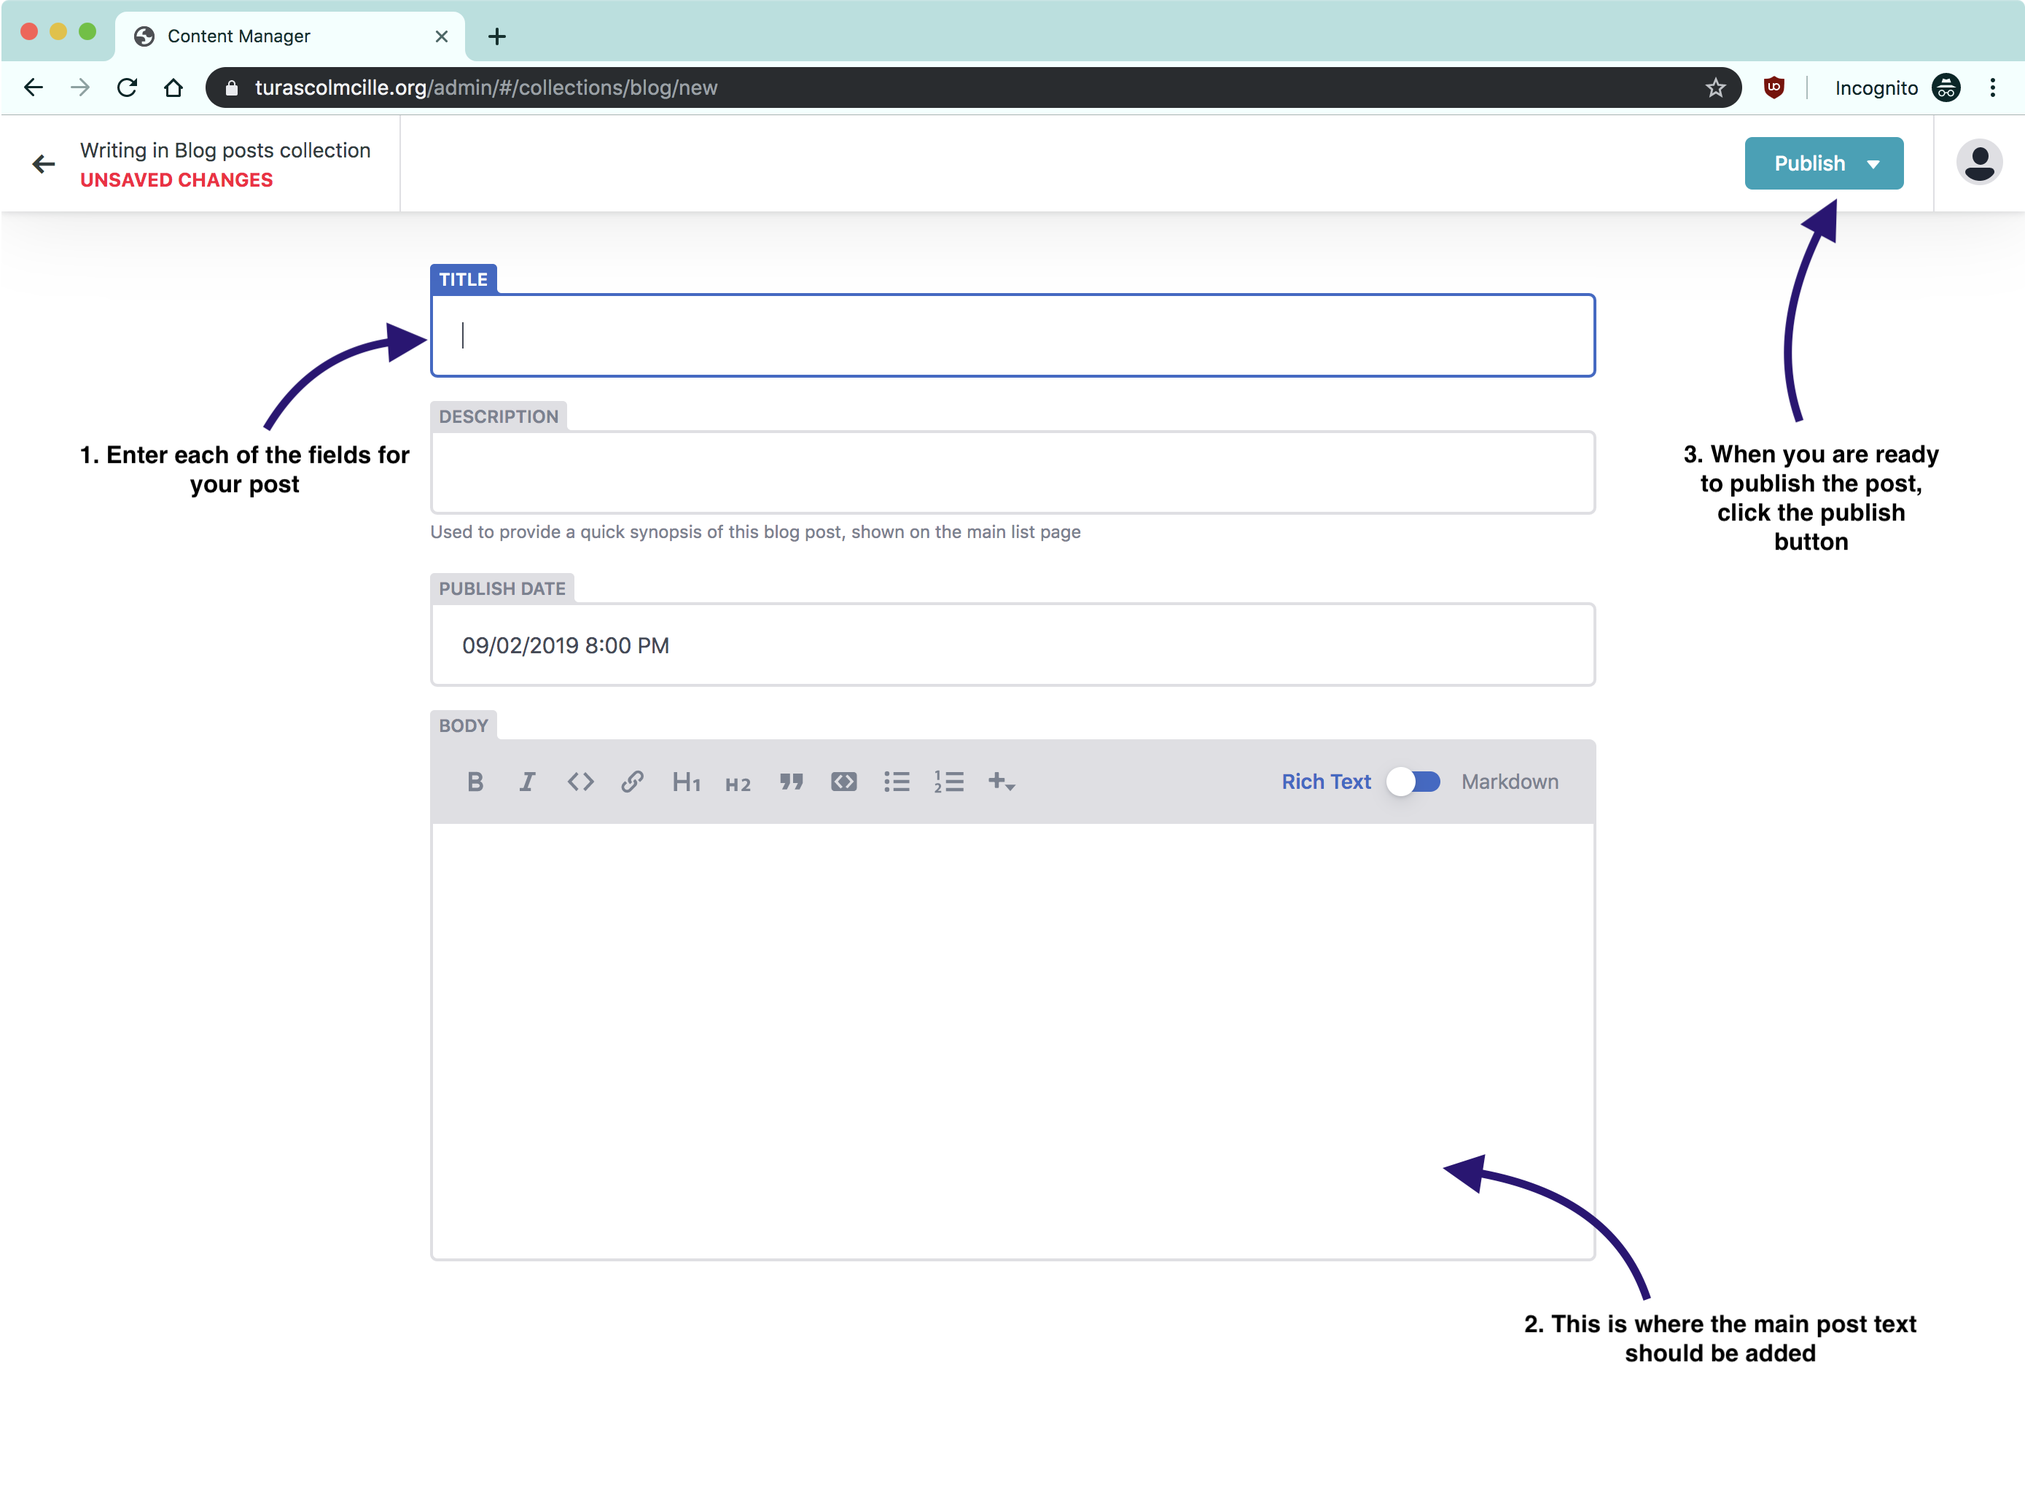
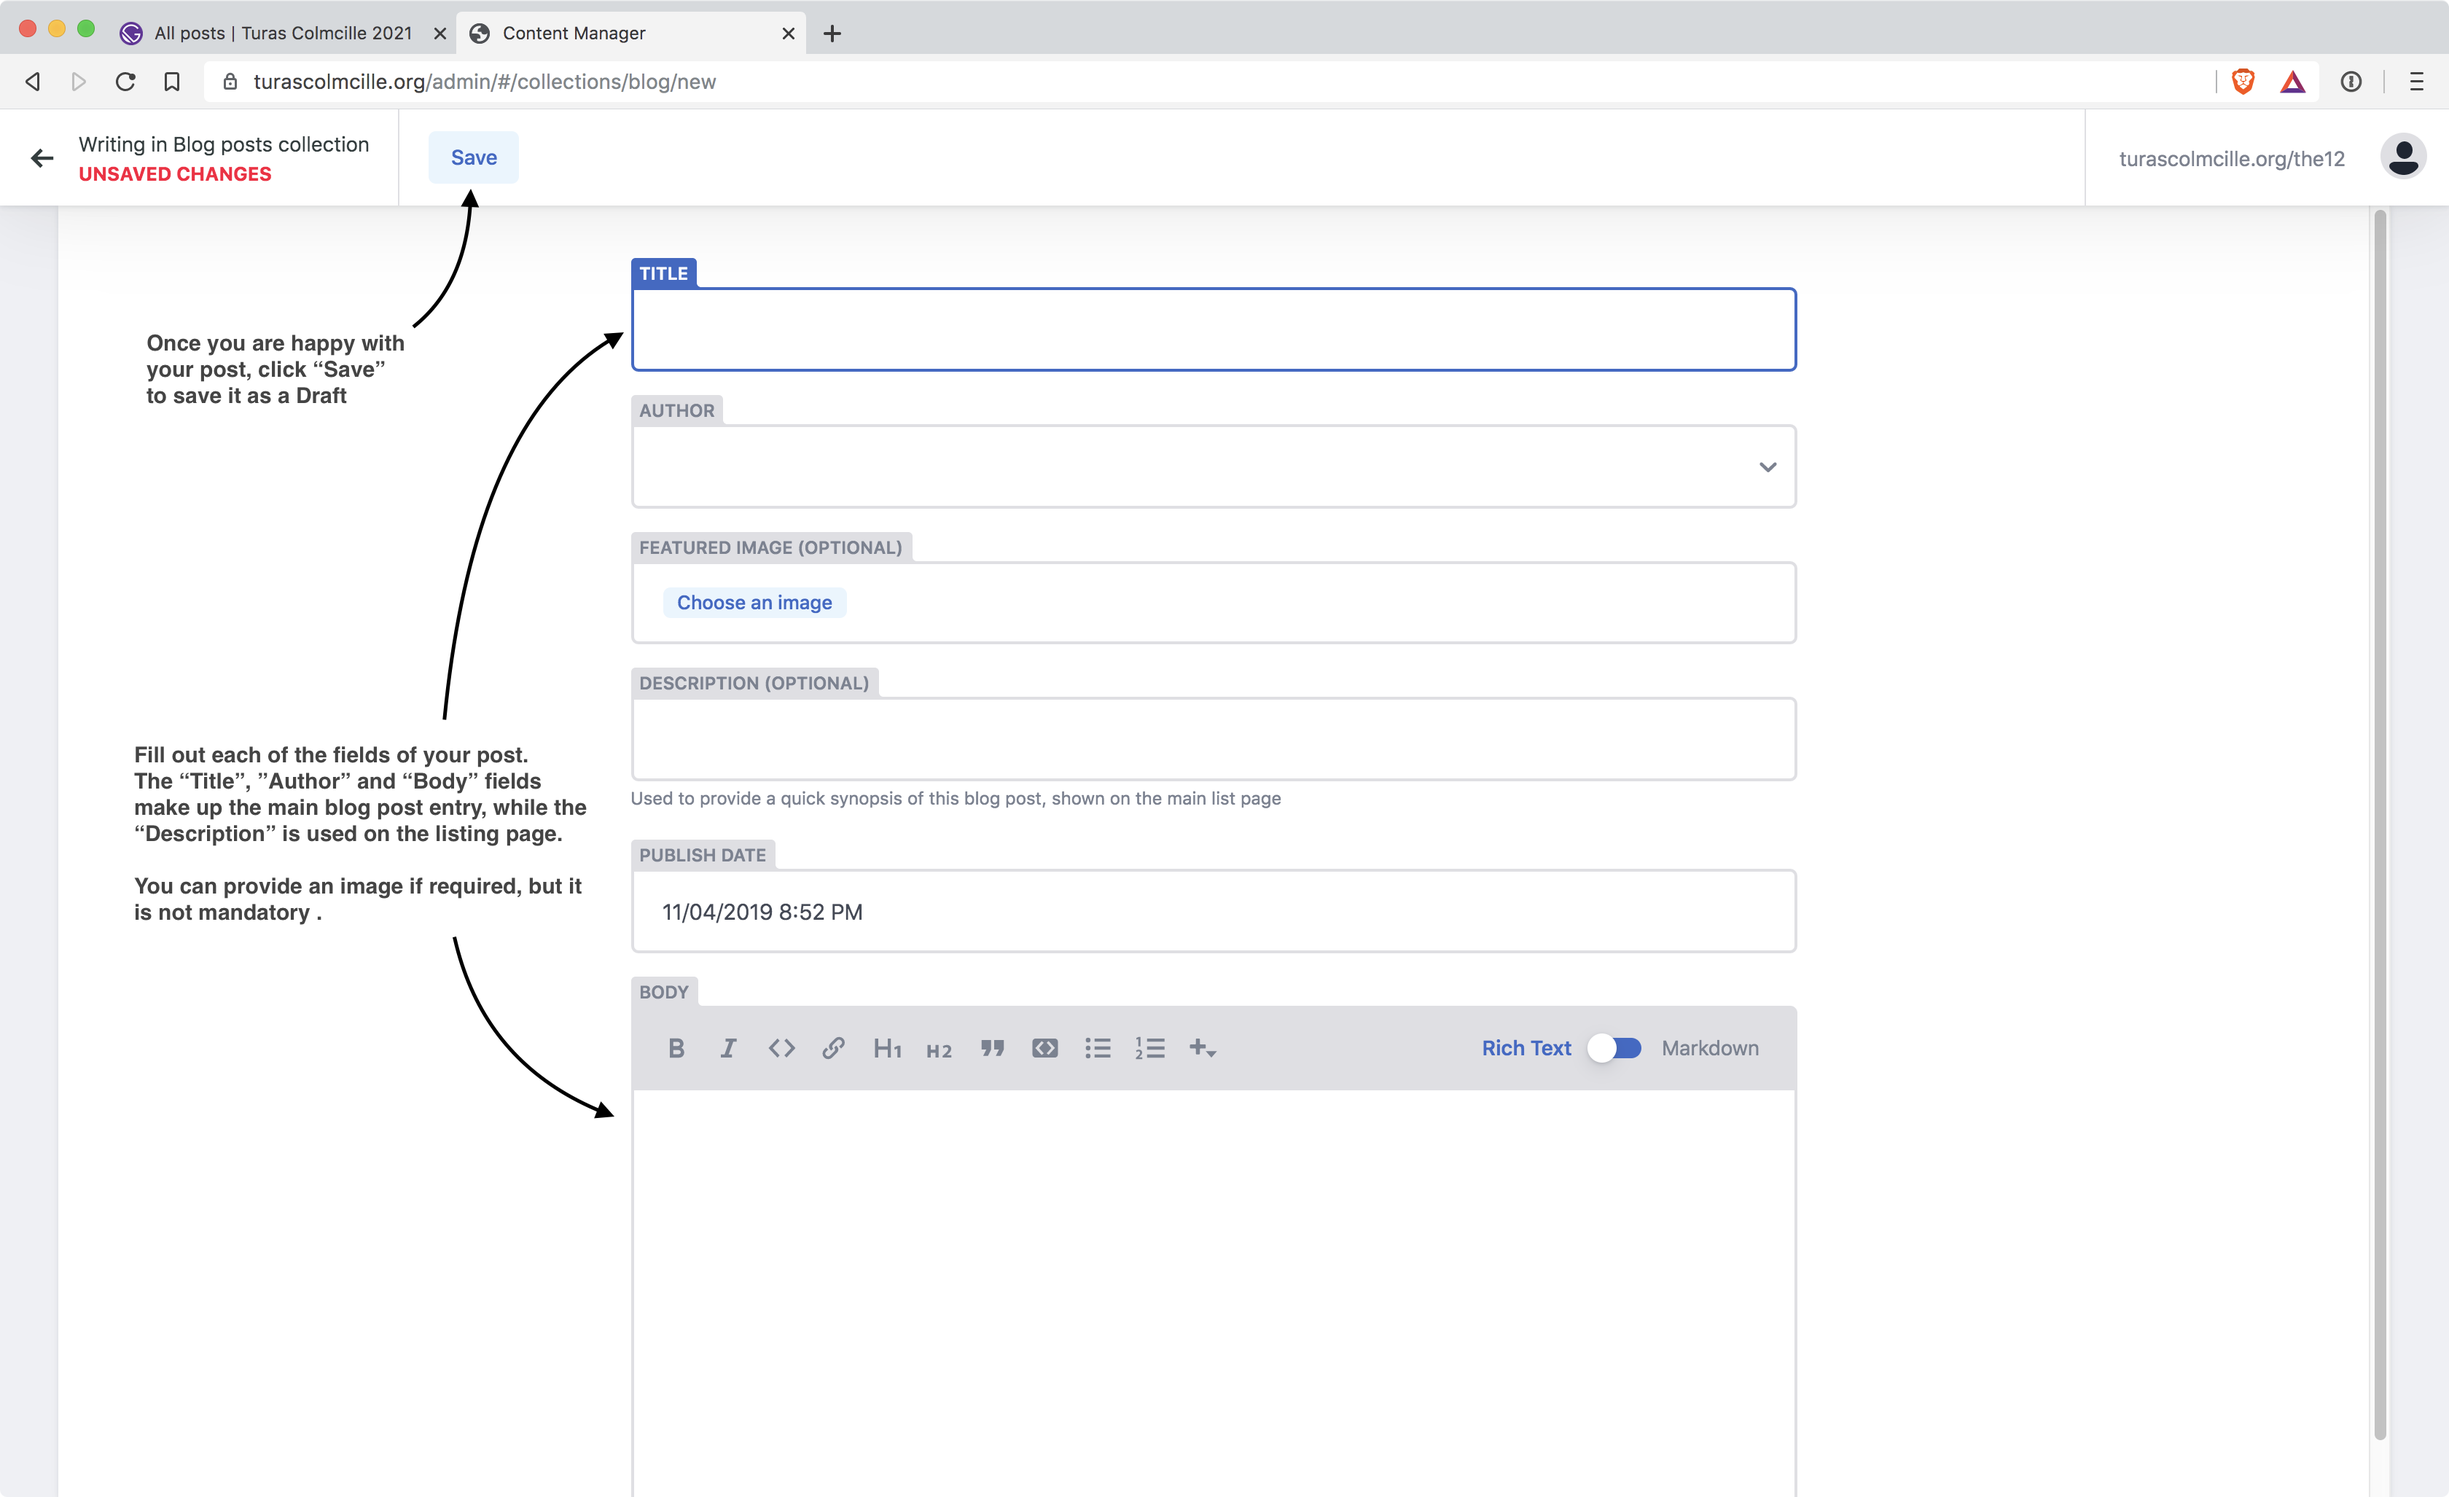
update docs to work with editorial workflow

Changed region(s): [[0.0, 0.0, 1.0, 0.9659], [0.0619, 0.3427, 0.8049, 0.7167], [0.2167, 0.6543, 0.8049, 0.8413]]

diff --git a/documentation/README.md b/documentation/README.md
@@ -1,8 +1,8 @@
 # turascolmcille.org
-This document explains how to access everything related to your new blog and email accounts.
+This document explains how to access everything related to your new blog.
 
 ## The blog
-The blog is located at turascolmcille.org/the12 and is a simple blog that shows all posts with the most recent displayed first. It is fully responsive so will display well on all screen sizes and devices.
+The blog is located at turascolmcille.org/the12 and is being used to gather information for possible future projects. The blog lists all posts with the most recent displayed first. It is fully responsive so will display well on all screen sizes and devices.
 
 ![turas colmcille blog example homepage](./screenshots/homepage.png)
 ![an example blog post](./screenshots/example-post.png)
@@ -20,9 +20,21 @@ Once logged in you will see a list of all the blog posts currently in your syste
 
 On the next screen you will be able to fill in the details of your post, then once you’re happy with it, click the "Save" button. This saves your post as a draft. After a minute or so, you will see some additional buttons appear allowing you to set the status to "Ready" and then publish your post to the live blog. You can also delete the post from this screen.
 
-**NOTE: It can take a few minutes after each save or publish before your post will appear on the live blog.**
-
 ![adding a new post](./screenshots/adding-a-post.png)
+
+When the post has been saved as a Draft, you have the opportunity to preview what it will look like on the live blog.
+
+If you want to preview it first, it may take a minute or two before a preview has been built. Click the "Check for Preview" link in the header and when a preview is available the link will change to "View Preview".
+
+When you're ready to publish your post, change the Status to "Ready" and click the "Publish" button.
+
+![previewing and publishing a post](./screenshots/preview-publish-a-post.png)
+
+### Editorial workflow
+Posts on the blog go through a "workflow" where they start as a "Draft", and from there they can either move to "In Review" or "Ready". Most of the time, a post author will simply change the status to "Raedy" and publish immediately, but if you have drafts that you or other authors have created, then these can be found under the "Workflow" tab.
+
+![editorial workflow](./screenshots/editorial-workflow.png)
+
 
 ### Editing / deleting a post
 
